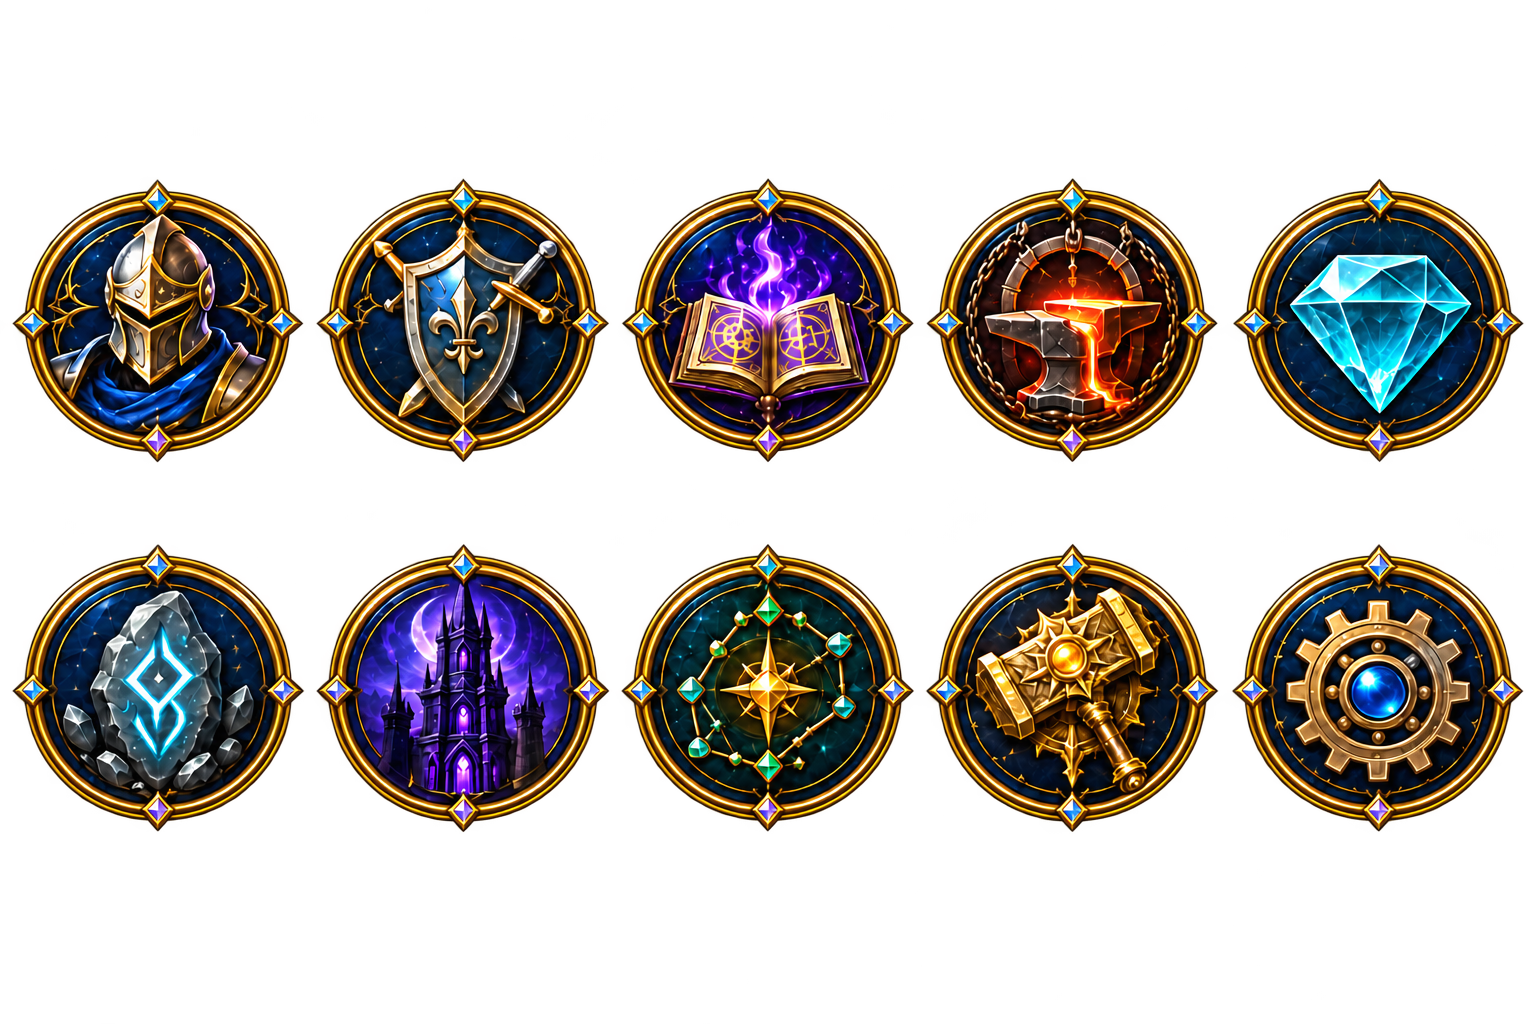
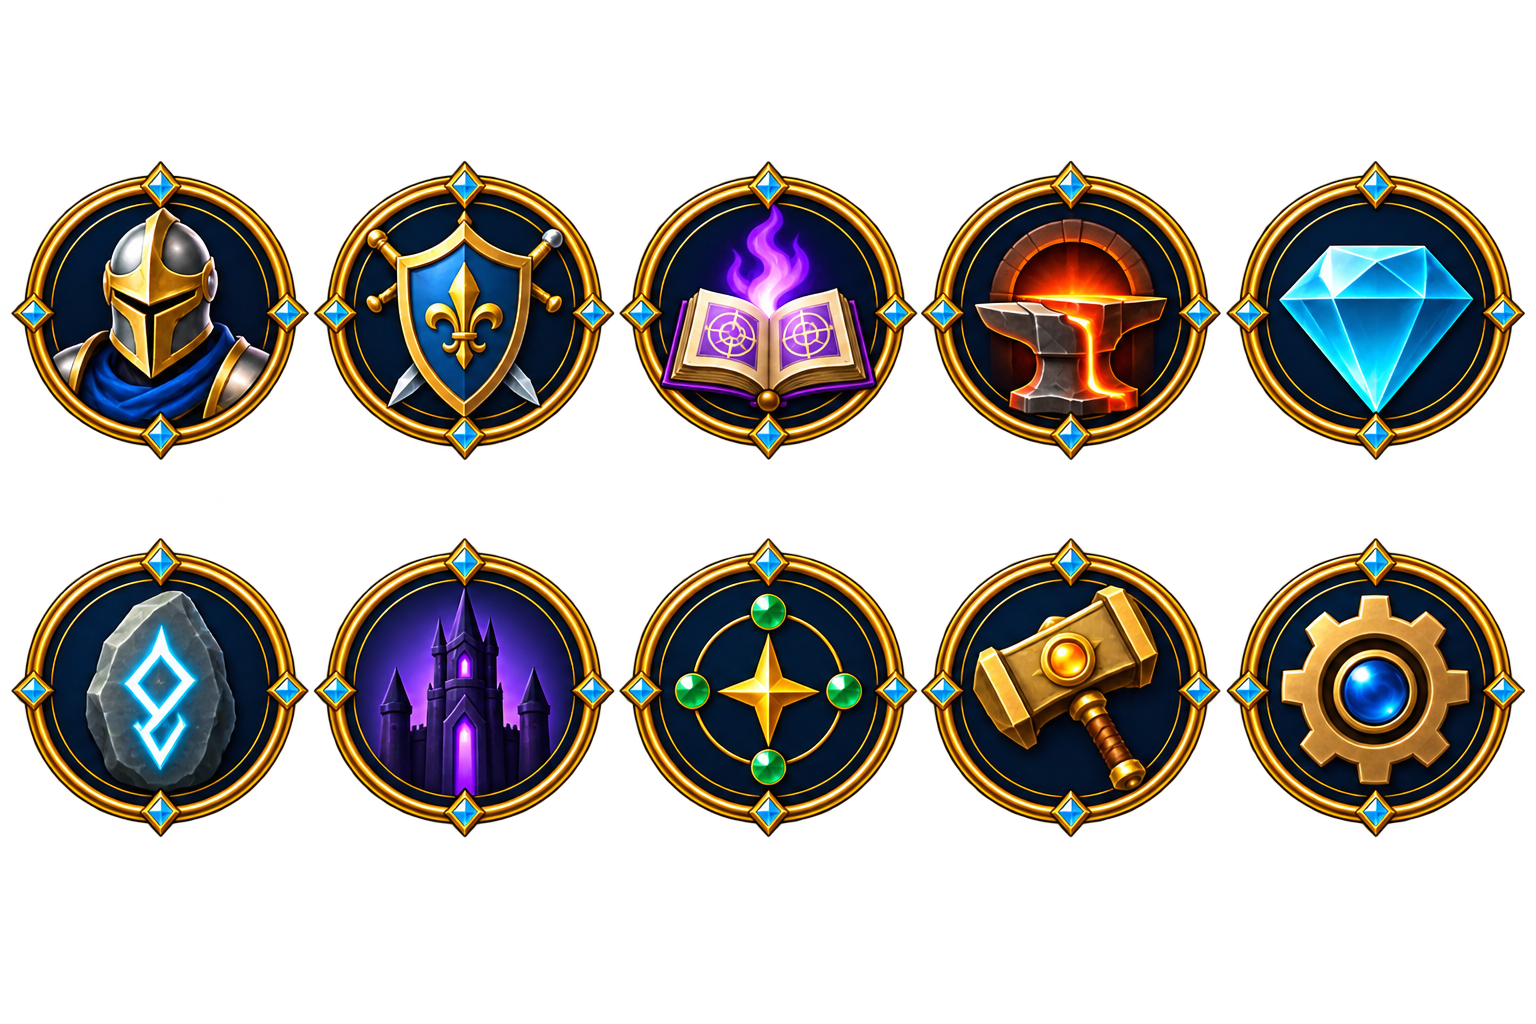
[Codex] fix: 清理功能徽章內圈與細碎裝飾

Changed region(s): [[0.0, 0.1562, 1.0, 0.4688], [0.0, 0.5312, 1.0, 0.8125]]

diff --git a/codex-authored/enamel-nav/SOURCE.md b/codex-authored/enamel-nav/SOURCE.md
@@ -9,3 +9,10 @@
 - 匯出工具：遊戲倉庫`tools/enamel-nav/export-source.cjs`，沿用`vfx-library-root.cjs`解析素材庫。`--make-icons`需要sharp；`--apply`及`--check`只需要Node內建模組。執行`--make-icons`、`--apply`後檢查`--check`。無本機絕對路徑寫入遊戲設定。
 - Mote Studio已確認可存取；本次需保留核定高精細圖稿並去背，採imagegen而未用像素繪圖工具重畫。
 - 遊戲引用：`index.html`的十個主選單按鈕，樣式`css/ashen-forge.css`；不影響神鑄解鎖／頁籤事件／存檔。
+
+## 2026-10-14 細碎裝飾清理
+
+- 使用者指出小尺寸圖示內圈細紋與光點顯髒，要求十圖全面修整；沿用本素材原創母圖，由內建imagegen重整，未匯入外部美術。
+- 現行`originals/badges.png`改為簡潔連續內圈、平滑深藍底、寬面主體；清除細碎刻紋／光點／散片。單顆寶石維持，符文成完整石塊，威能只留四個主要節點，錘頭與齒輪去除小鉚釘／雕飾。
+- 原稿`originals/approved-concept.png`仍保留為風格來源；舊版透明母圖與匯出保存在Git歷史65318f4，未刪除原始概念圖。
+- 仍沿既有工具分格裁切／縮小／透明留白到128×128，不重畫圖案。以64×64及遊戲38px顯示檢查；所有圖示引用快取更新為20261014-clean。
